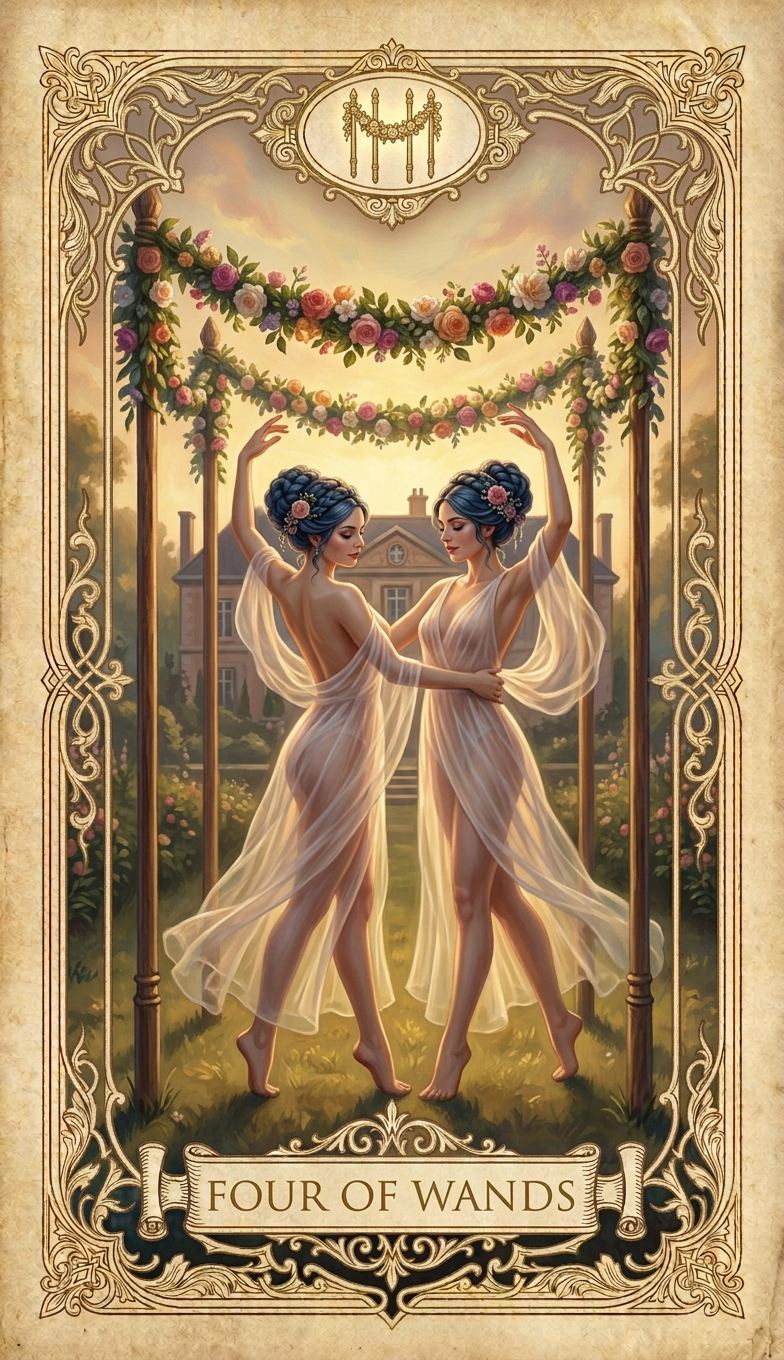
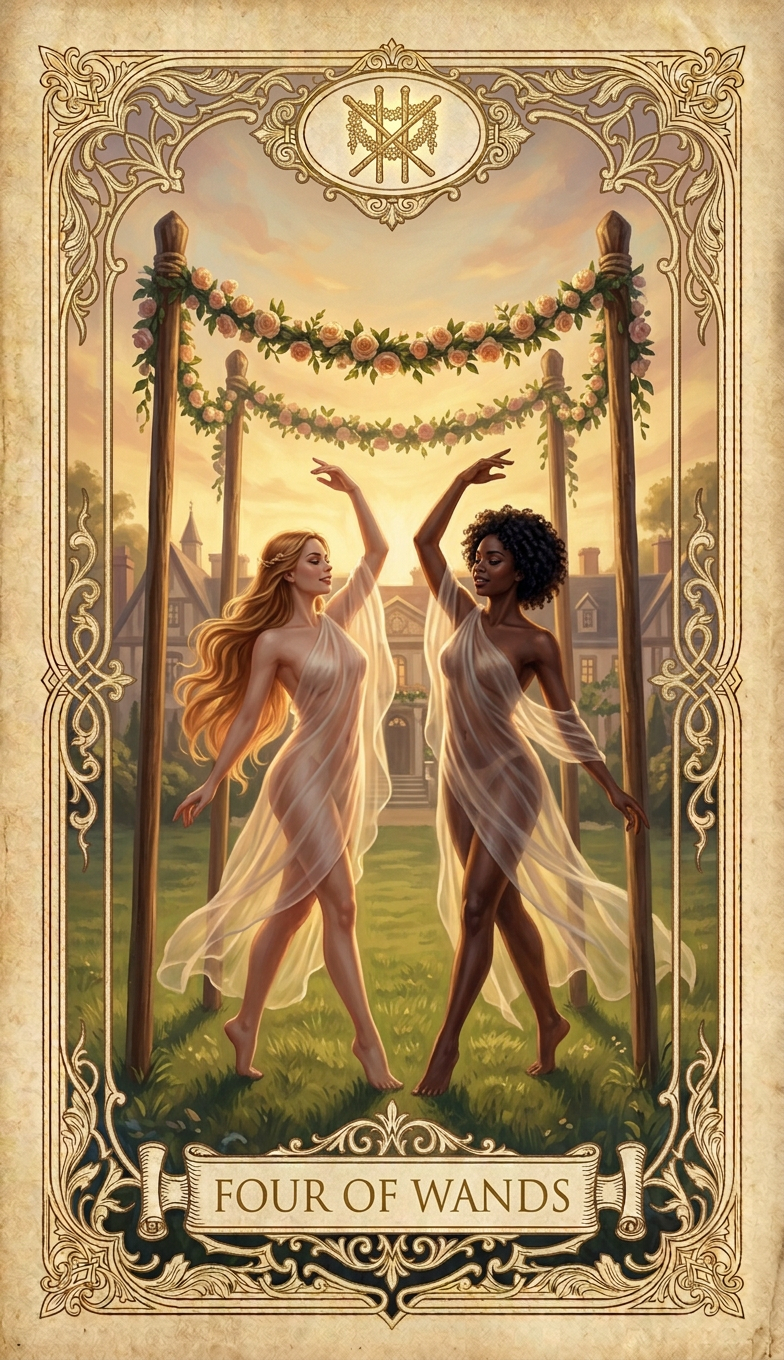
Four & Five of Wands: distinct features per figure; strict 5 wands
- Four of Wands: two dancers now distinct (fair/honey-gold vs deep/black
  coils), each with its own face and figure.
- Five of Wands: five women each distinct (blonde / auburn curls / black
  coils / straight black / copper waves) and a strict count lock of exactly
  five wands, one per woman, no extras.
Frames verified vs The Star (RMSE 0.020 / 0.037).

diff --git a/cards/index.html b/cards/index.html
@@ -606,7 +606,7 @@
             <div class="card-details">
                 <div class="card-title">FOUR OF WANDS</div>
                 <div class="card-meta"><strong>Độ tuổi:</strong> 20 years old &bull; <strong>Huy hiệu:</strong> four wands with a garland</div>
-                <div class="card-scene">four garlanded wands forming a festive canopy, two graceful young women dancing gently beneath it, both slender and draped in diaphanous transparent silk veils, a manor beyond</div>
+                <div class="card-scene">four garlanded wands forming a festive canopy, two graceful young women dancing gently beneath it, both draped in diaphanous transparent silk veils — one fair-skinned with flowing honey-gold hair and one deep-skinned with tight black coils, each with a distinct face and figure — a manor beyond</div>
             </div>
         </div>
         <div class="card-item">
@@ -614,7 +614,7 @@
             <div class="card-details">
                 <div class="card-title">FIVE OF WANDS</div>
                 <div class="card-meta"><strong>Độ tuổi:</strong> 21 years old &bull; <strong>Huy hiệu:</strong> five wands crossed in a star</div>
-                <div class="card-scene">five graceful young women draped in diaphanous transparent silk veils, gently and playfully twirling five living wands in a soft meadow</div>
+                <div class="card-scene">five graceful young women draped in diaphanous transparent silk veils dancing gently in a soft meadow, each woman distinct — one fair-skinned with flowing blonde hair, one warm-toned with dark auburn curls, one deep-skinned with tight black coils, one olive-skinned with straight black hair, and one rosy-skinned with copper waves — each holding exactly one wand</div>
             </div>
         </div>
         <div class="card-item">
